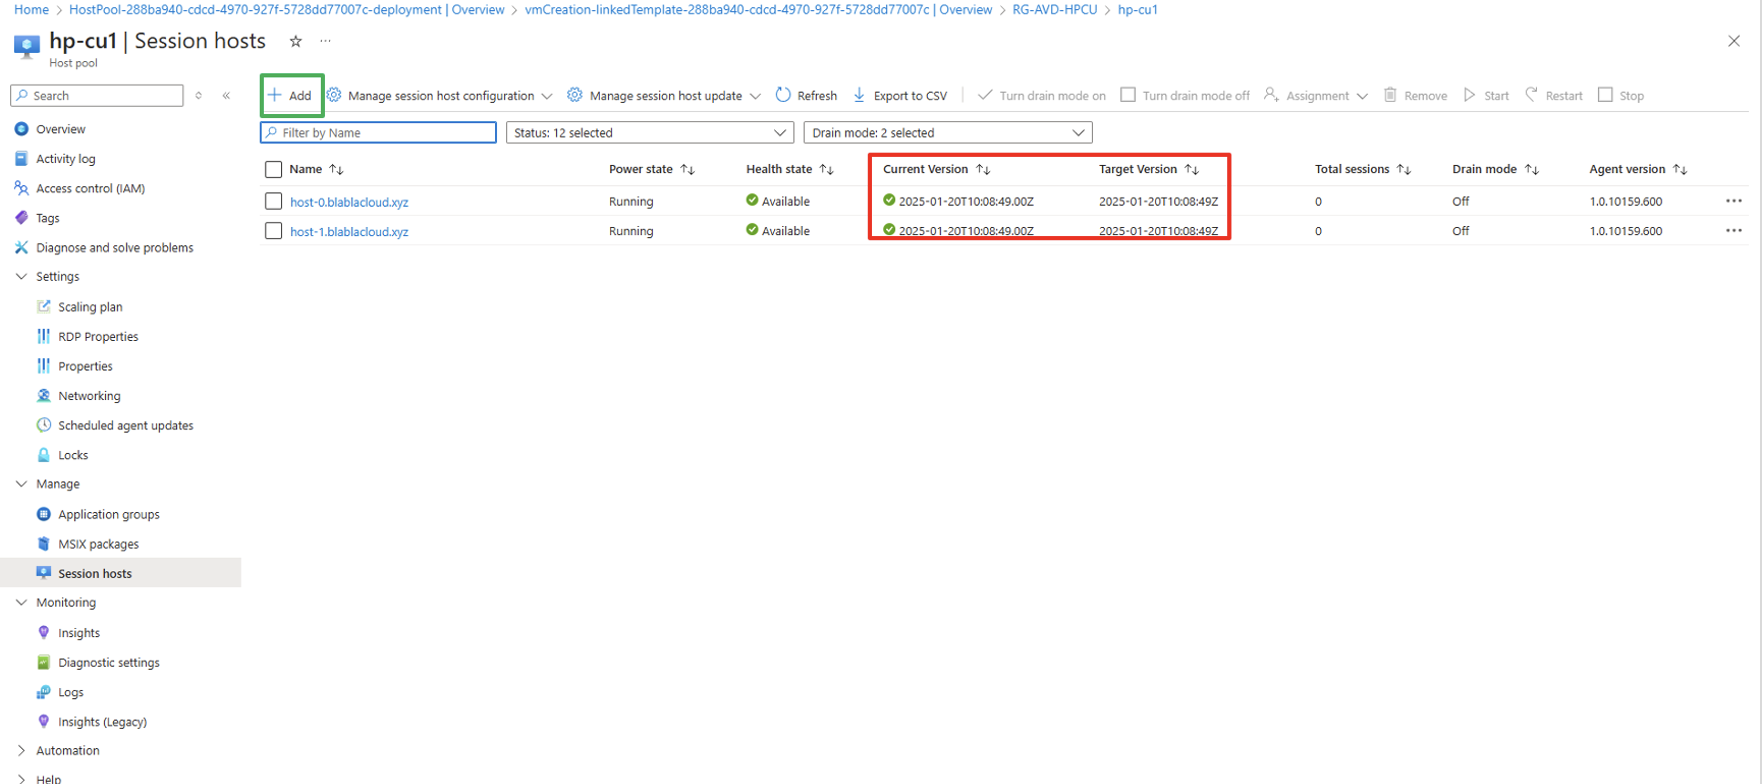
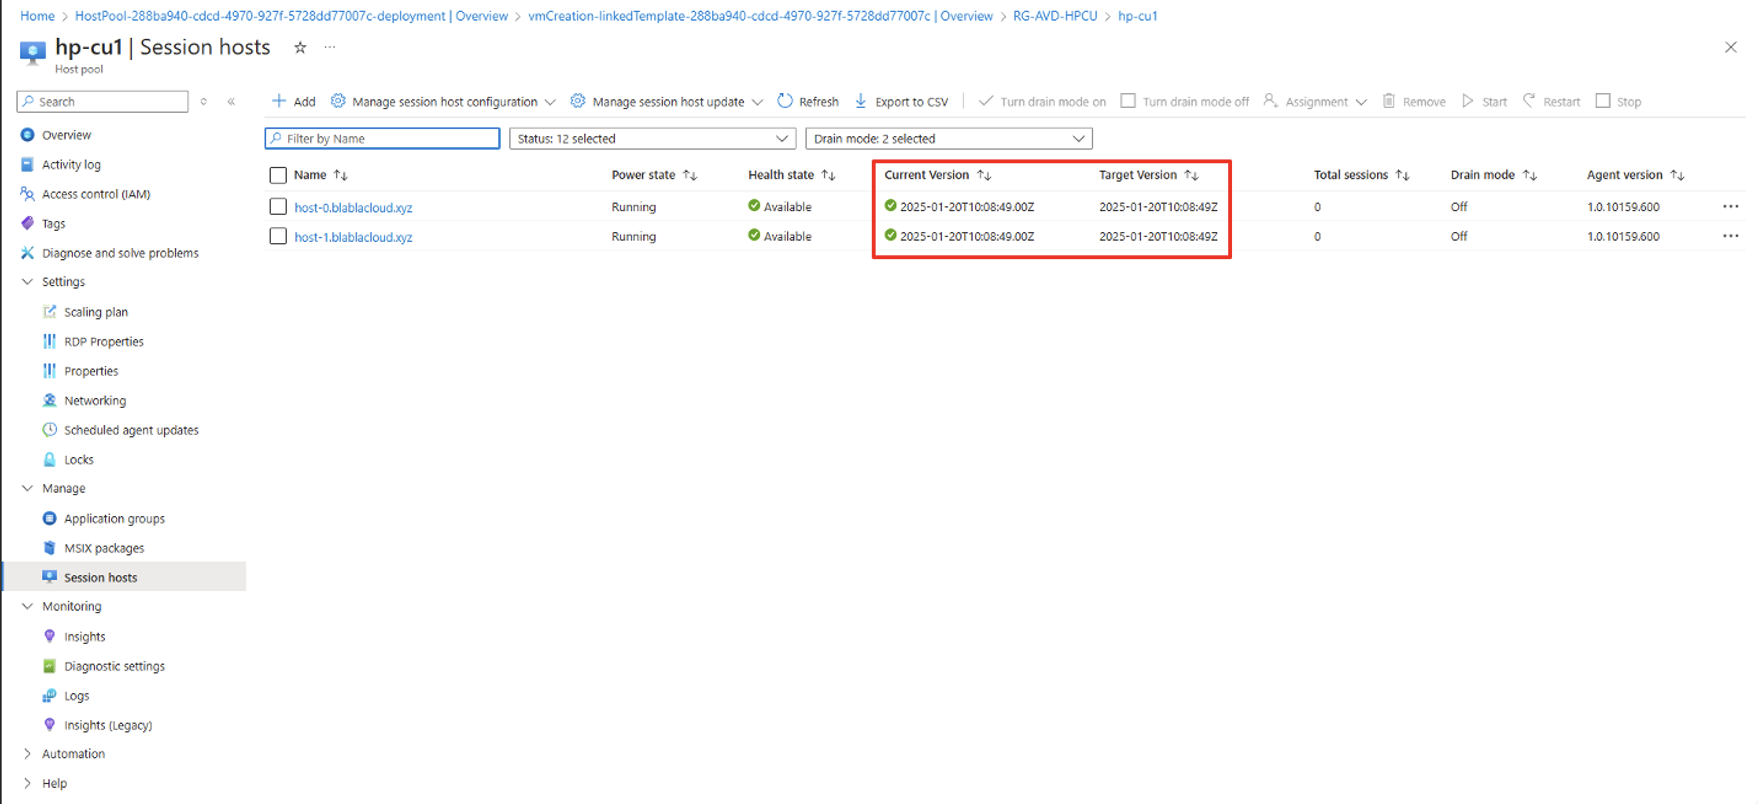
first commit

diff --git a/README.md b/README.md
@@ -54,7 +54,7 @@ Les prérequis pour déployer cette nouvelle fonctionnalité:<br>
     <img width='800' src='./images/img_0-3.png'/><br><br>
 
 A la fin du déployment, on peut remarquer au niveau du "host pool" deux nouvelles colonnes "Curent Version" et "Target Version" qui correspondent à la version des "session host" au format "timestamp"
-<img width='800' src='./images/img_0-4.png'/><br><br>
+<img width='800' src='./images/img_0-4-1.png'/><br><br>
 
 
 
